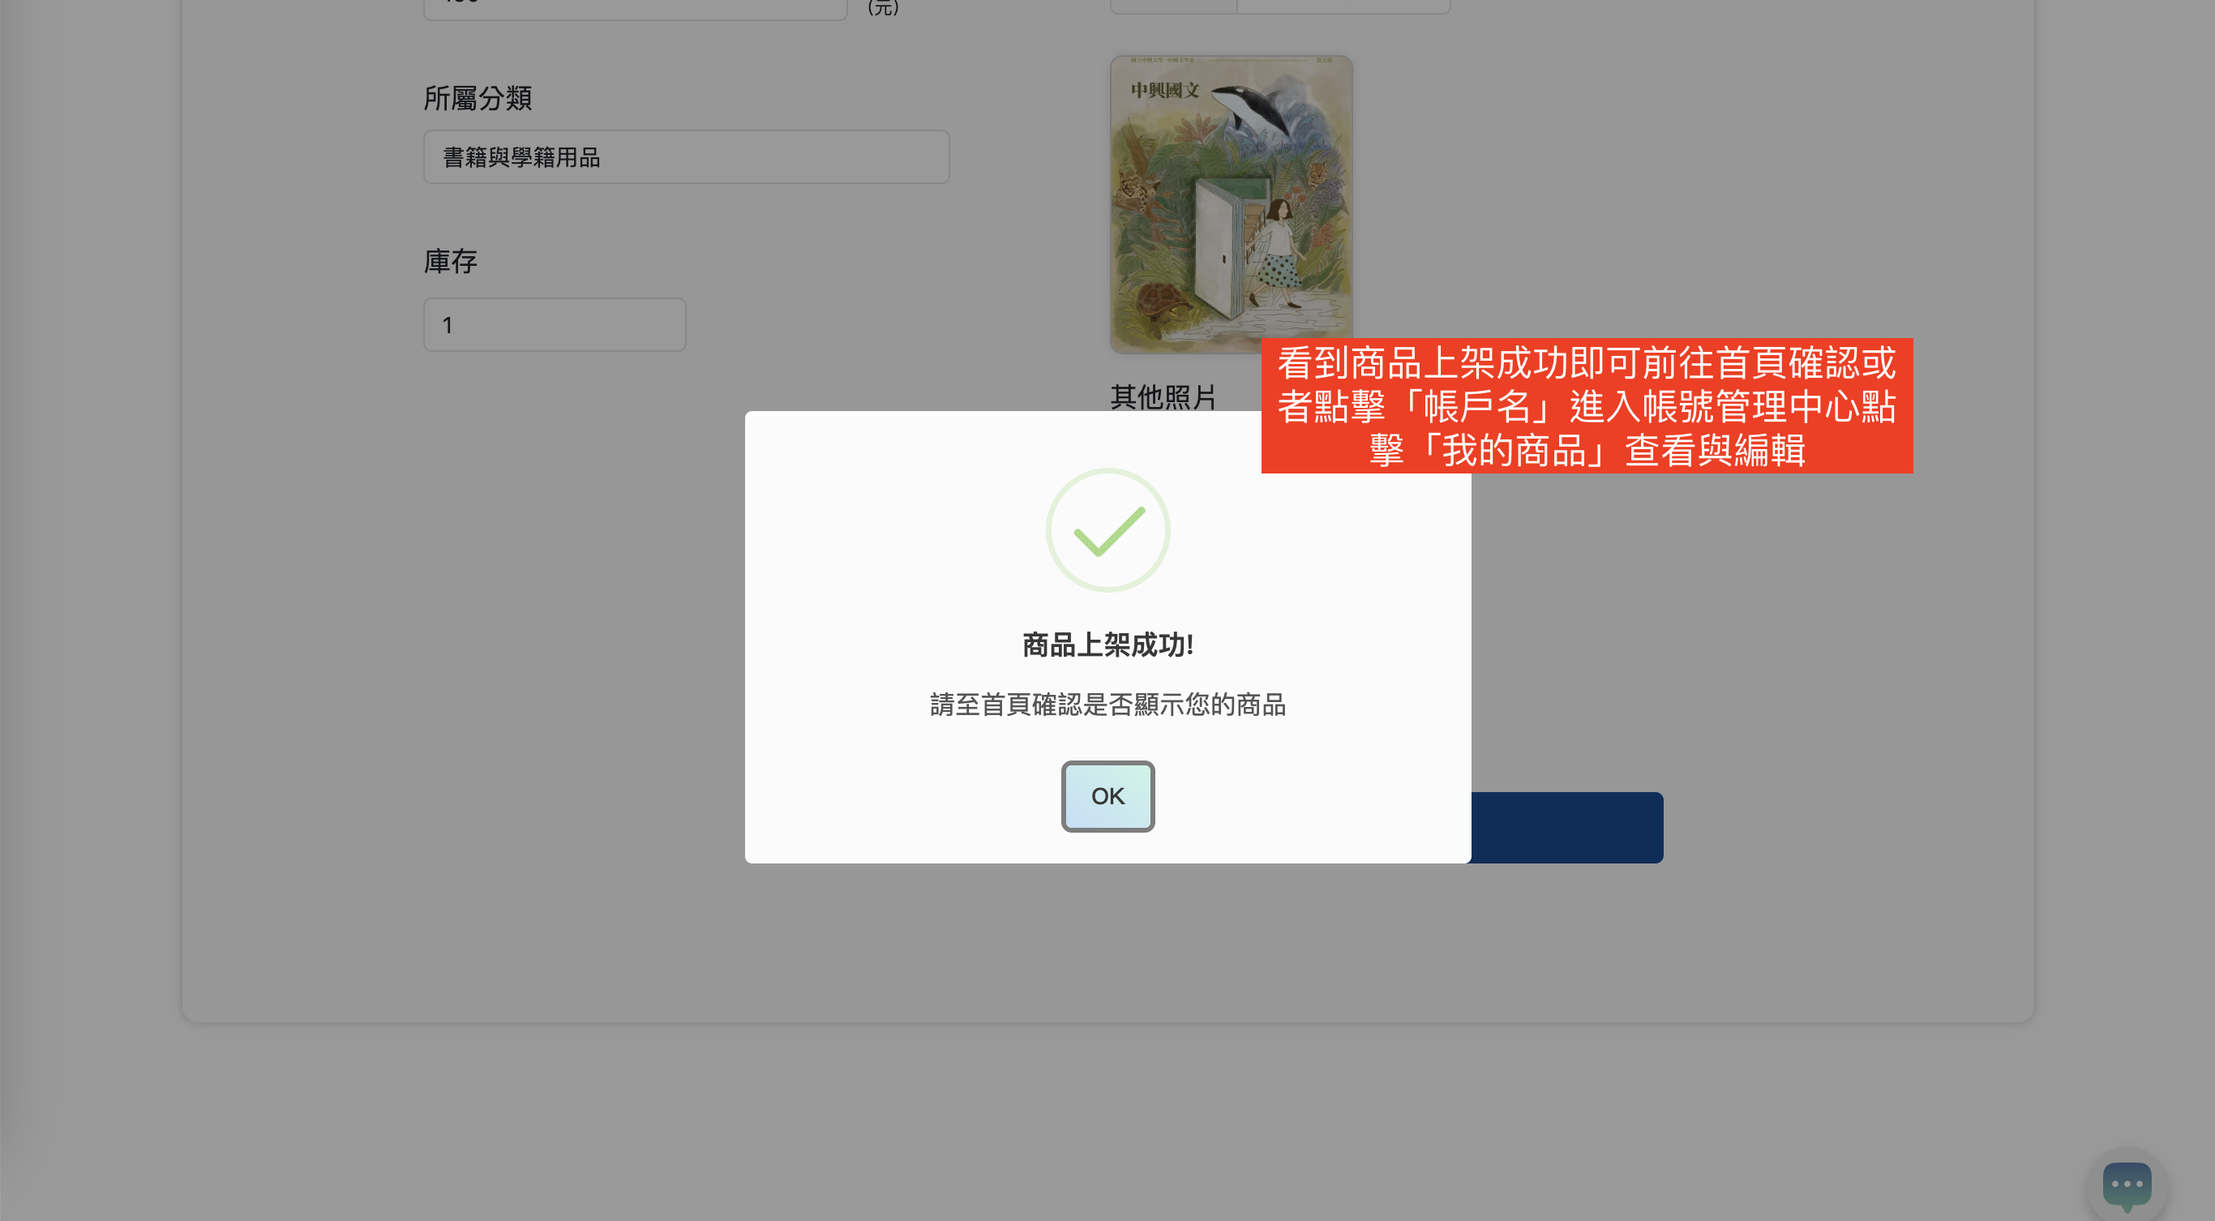
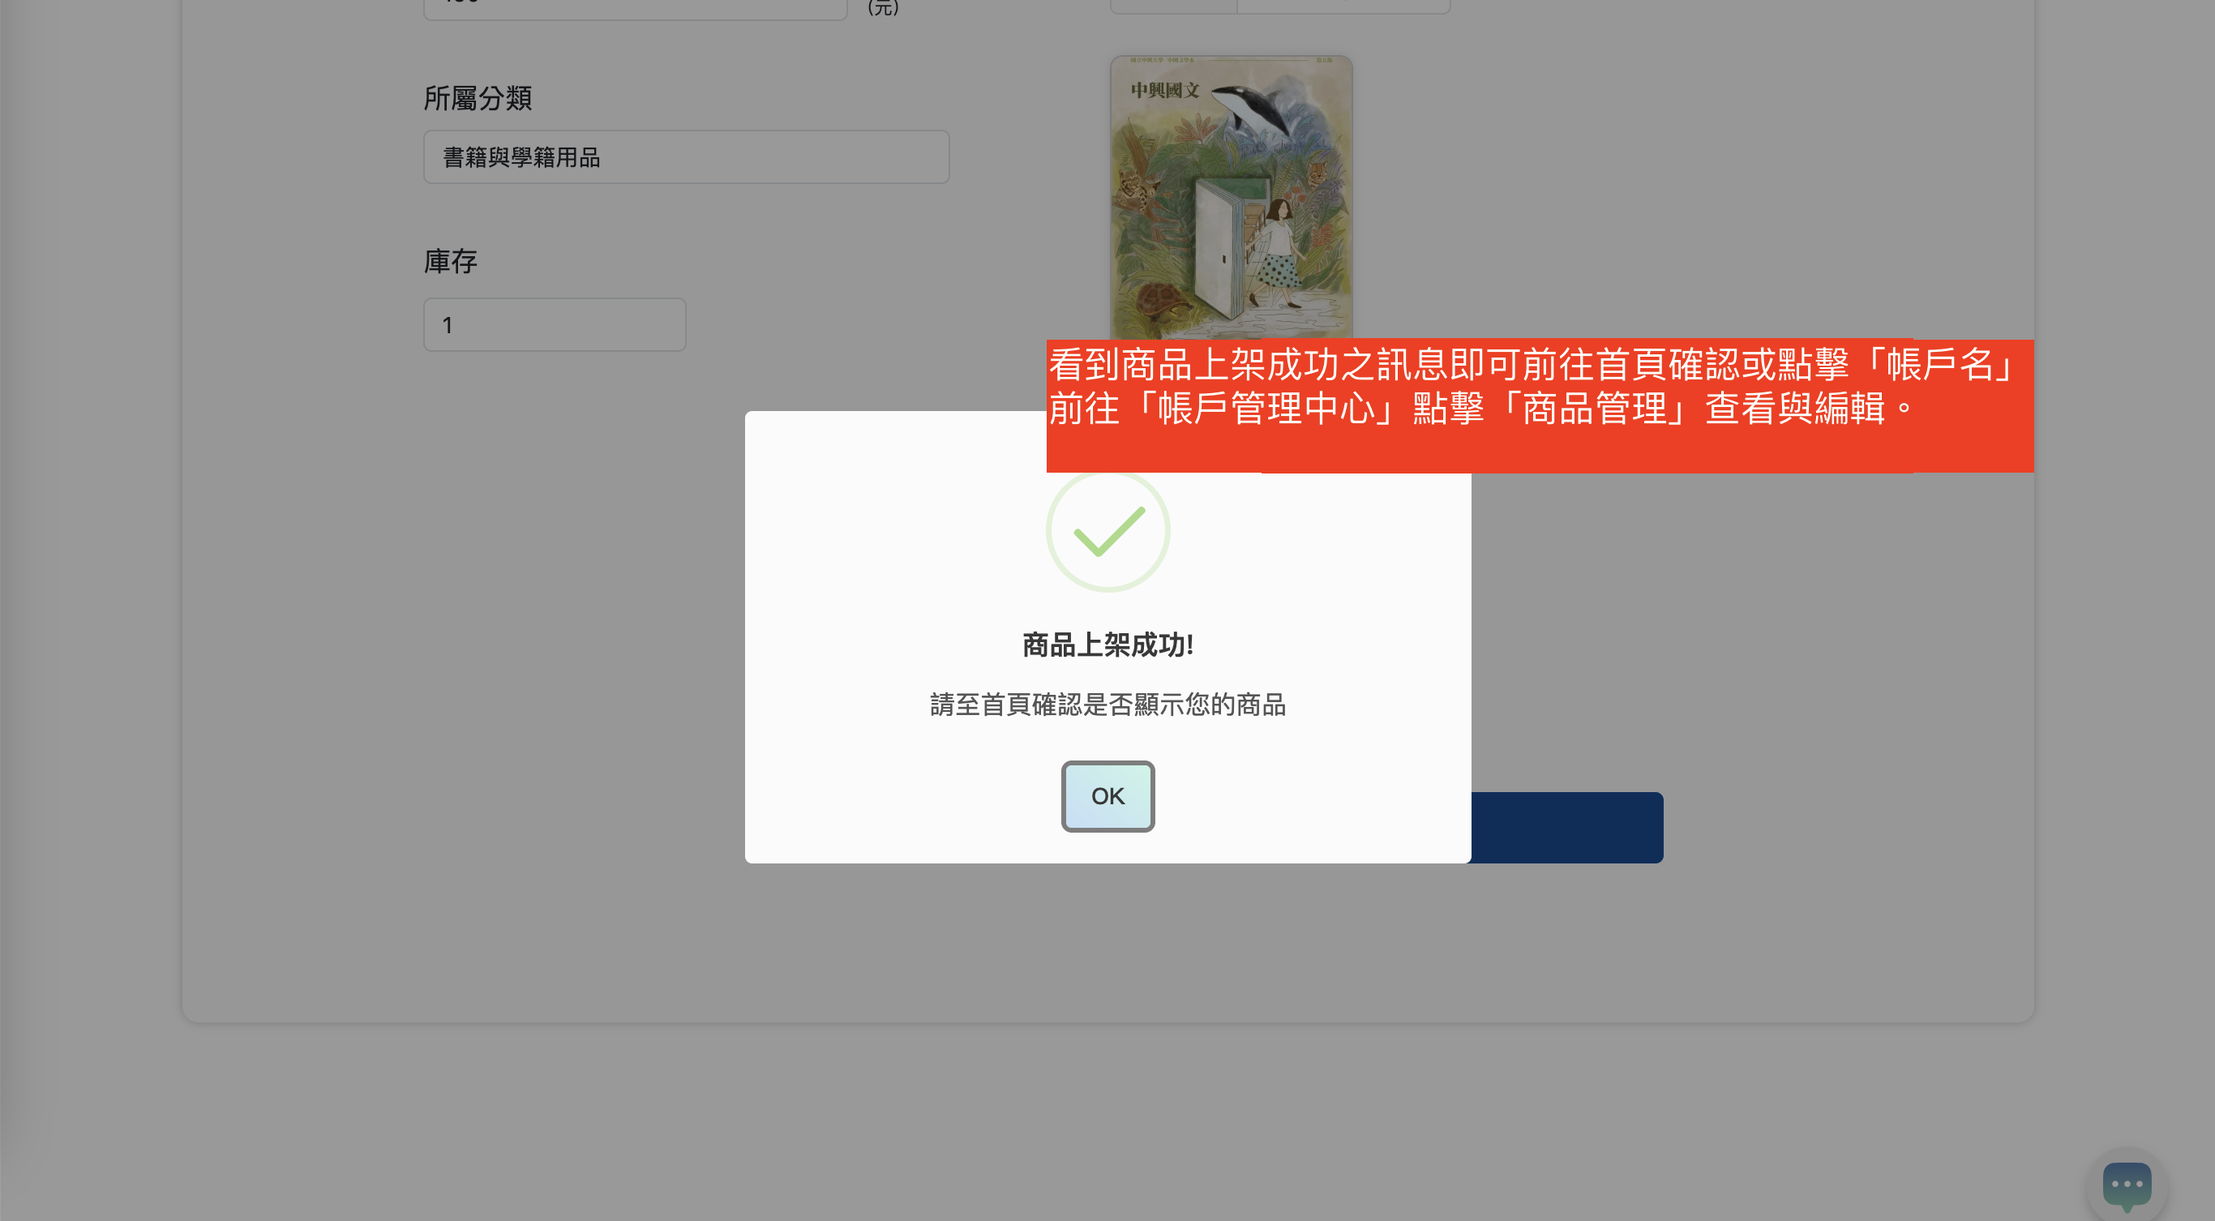
新增faq 的 alt

Changed region(s): [[0.4667, 0.2809, 0.9334, 0.4057]]

diff --git a/questions/questions.html b/questions/questions.html
@@ -146,43 +146,43 @@
                 <a href="../image/sell1.png"
                    data-pswp-width="1000"
                    data-pswp-height="360">
-                  <img loading="lazy" src="../image/sell1.png" width="1000" height="360" alt="">
+                  <img loading="lazy" src="../image/sell1.png" width="1000" height="360" alt="前往購物首頁，點選主廣告幅下方的賣家專區。">
                 </a>
 
                 <a href="../image/sell2.png"
                    data-pswp-width="1000"
                    data-pswp-height="560">
-                  <img loading="lazy" src="../image/sell2.png" width="1000" height="560" alt="">
+                  <img loading="lazy" src="../image/sell2.png" width="1000" height="560" alt="請先在 Home 區域閱讀販賣商品相關規則，再點擊「我要賣商品！」進入販賣商品環節。">
                 </a>
 
                 <a href="../image/sell3.png"
                    data-pswp-width="1000"
                    data-pswp-height="560">
-                  <img loading="lazy" src="../image/sell3.png" width="1000" height="560" alt="">
+                  <img loading="lazy" src="../image/sell3.png" width="1000" height="560" alt="進入「我要賣商品！」頁面後，即可填寫商品相關資訊。">
                 </a>
 
                 <a href="../image/sell4.png"
                    data-pswp-width="1000"
                    data-pswp-height="560">
-                  <img loading="lazy" src="../image/sell4.png" width="1000" height="560" alt="">
+                  <img loading="lazy" src="../image/sell4.png" width="1000" height="560" alt="填寫完整後點擊「一鍵販賣」。">
                 </a>
 
                 <a href="../image/sell5.png"
                    data-pswp-width="1000"
                    data-pswp-height="560">
-                  <img loading="lazy" src="../image/sell5.png" width="1000" height="560" alt="">
+                  <img loading="lazy" src="../image/sell5.png" width="1000" height="560" alt="系統提醒所有商品資訊皆須符合拾貨寶庫規定，若確定符合，點擊「是，我就要賣！」送出商品。">
                 </a>
 
                 <a href="../image/sell6.png"
                    data-pswp-width="1000"
                    data-pswp-height="560">
-                  <img loading="lazy" src="../image/sell6.png" width="1000" height="560" alt="">
+                  <img loading="lazy" src="../image/sell6.png" width="1000" height="560" alt="系統上架商品中會跳出等待動畫，請稍等，勿跳出視窗或做任何操作。">
                 </a>
 
                 <a href="../image/sell7.png"
                    data-pswp-width="1000"
                    data-pswp-height="560">
-                  <img loading="lazy" src="../image/sell7.png" width="1000" height="560" alt="">
+                  <img loading="lazy" src="../image/sell7.png" width="1000" height="560" alt="看到商品上架成功之訊息即可前往首頁確認或點擊「帳戶名」前往「帳戶管理中心」點擊「商品管理」查看與編輯。">
                 </a>
               </div>
             </div>
@@ -200,37 +200,37 @@
                 <a href="../image/howtobuy1.png"
                    data-pswp-width="1000"
                    data-pswp-height="560">
-                  <img loading="lazy" src="../image/howtobuy1.png" width="1000" height="560" alt="">
+                  <img loading="lazy" src="../image/howtobuy1.png" width="1000" height="560" alt="在拾貨寶庫的購物首頁或購物商場選擇您有興趣的商品，點擊商品。">
                 </a>
 
                 <a href="../image/howtobuy2.png"
                    data-pswp-width="1000"
                    data-pswp-height="560">
-                  <img loading="lazy" src="../image/howtobuy2.png" width="1000" height="560" alt="">
+                  <img loading="lazy" src="../image/howtobuy2.png" width="1000" height="560" alt="進入商品詳細資訊頁後，點擊馬上下單或加入購物車。如果對商品有疑問，可以往下滑點擊與賣家聊聊。">
                 </a>
 
                 <a href="../image/howtobuy3.png"
                    data-pswp-width="1000"
                    data-pswp-height="560">
-                  <img loading="lazy" src="../image/howtobuy3.png" width="1000" height="560" alt="">
+                  <img loading="lazy" src="../image/howtobuy3.png" width="1000" height="560" alt="一、點擊購物車跳轉到購物車頁面。二、勾選要下單的商品。三、勾選同意注意事項。四、點擊送出訂單（目前僅支援面交付款，敬請期待其他付費方式）。">
                 </a>
 
                 <a href="../image/howtobuy4.png"
                    data-pswp-width="1000"
                    data-pswp-height="560">
-                  <img loading="lazy" src="../image/howtobuy4.png" width="1000" height="560" alt="">
+                  <img loading="lazy" src="../image/howtobuy4.png" width="1000" height="560" alt="收到訂單建立成功之通知後，若要查看訂單可以點擊自己的帳戶名進入帳戶管理中心。">
                 </a>
 
                 <a href="../image/howtobuy5.png"
                    data-pswp-width="1000"
                    data-pswp-height="560">
-                  <img loading="lazy" src="../image/howtobuy5.png" width="1000" height="560" alt="">
+                  <img loading="lazy" src="../image/howtobuy5.png" width="1000" height="560" alt="進入帳戶管理中心後點擊「消費訂單」。">
                 </a>
 
                 <a href="../image/howtobuy6.png"
                    data-pswp-width="1000"
                    data-pswp-height="560">
-                  <img loading="lazy" src="../image/howtobuy6.png" width="1000" height="560" alt="">
+                  <img loading="lazy" src="../image/howtobuy6.png" width="1000" height="560" alt="可以看見剛下單的訂單記錄，若想得到更多資訊可以點擊訂單詳情。">
                 </a>
               </div>
             </div>  
@@ -248,19 +248,19 @@
                 <a href="../image/wish1.png"
                    data-pswp-width="1000"
                    data-pswp-height="560">
-                  <img loading="lazy" src="../image/wish1.png" width="1000" height="560" alt="">
+                  <img loading="lazy" src="../image/wish1.png" width="1000" height="560" alt="前往購物首頁，點選主廣告幅下方的許願專區（主廣告幅也有許願專區連結），或者其他頁面的導覽列中選擇許願專區。">
                 </a>
 
                 <a href="../image/wish2.png"
                    data-pswp-width="1000"
                    data-pswp-height="560">
-                  <img loading="lazy" src="../image/wish2.png" width="1000" height="560" alt="">
+                  <img loading="lazy" src="../image/wish2.png" width="1000" height="560" alt="進入許願池以後，點擊導覽列中的「我要許願」。">
                 </a>
 
                 <a href="../image/wish3.png"
                    data-pswp-width="1000"
                    data-pswp-height="560">
-                  <img loading="lazy" src="../image/wish3.png" width="1000" height="560" alt="">
+                  <img loading="lazy" src="../image/wish3.png" width="1000" height="560" alt="填寫許願表單並送出。即可在導覽列中「我的願望」頁查看。請注意：填寫表單或檢視自己的願望都必須先登入帳號。">
                 </a>
               </div>
             </div>
@@ -278,25 +278,25 @@
                 <a href="../image/wish1.png"
                   data-pswp-width="1000"
                   data-pswp-height="560">
-                  <img loading="lazy" src="../image/wish1.png" width="1000" height="560" alt="">
+                  <img loading="lazy" src="../image/wish1.png" width="1000" height="560" alt="前往購物首頁，點選主廣告幅下方的許願專區（主廣告幅也有許願專區連結），或者其他頁面的導覽列中選擇許願專區。">
                 </a>
 
                 <a href="../image/match1.png"
                    data-pswp-width="1000"
                    data-pswp-height="560">
-                  <img loading="lazy" src="../image/match1.png" width="1000" height="560" alt="">
+                  <img loading="lazy" src="../image/match1.png" width="1000" height="560" alt="選擇想要媒合的願望點擊進入願望詳細頁面。">
                 </a>
 
                 <a href="../image/match2.png"
                    data-pswp-width="1000"
                    data-pswp-height="560">
-                  <img loading="lazy" src="../image/match2.png" width="1000" height="560" alt="">
+                  <img loading="lazy" src="../image/match2.png" width="1000" height="560" alt="檢視許願者願望條件，若想要媒合許願者願望，點擊「聯絡許願者」。注意：聯絡許願者須先登入。">
                 </a>
 
                 <a href="../image/match3.png"
                    data-pswp-width="1000"
                    data-pswp-height="560">
-                  <img loading="lazy" src="../image/match3.png" width="1000" height="560" alt="">
+                  <img loading="lazy" src="../image/match3.png" width="1000" height="560" alt="點擊想要媒合的商品，請先檢查自己庫存是否足夠。選則商品點擊確認媒合後，系統將會自動通知許願者。若尚未上架該商品可點擊左下方連結前往販賣。">
                 </a>
               </div>
             </div>
@@ -314,19 +314,19 @@
                 <a href="../image/chat1.png"
                    data-pswp-width="1000"
                    data-pswp-height="560">
-                  <img loading="lazy" src="../image/chat1.png" width="1000" height="560" alt="">
+                  <img loading="lazy" src="../image/chat1.png" width="1000" height="560" alt="需事先登入。點擊聊天室icon顯示所有聊天列表，或者如果點進商品詳細頁面，會有「與賣家聊聊」，點擊後您將創建與賣家的一對一聊天室。">
                 </a>
 
                 <a href="../image/chat2.png"
                    data-pswp-width="1000"
                    data-pswp-height="560">
-                  <img loading="lazy" src="../image/chat2.png" width="1000" height="560" alt="">
+                  <img loading="lazy" src="../image/chat2.png" width="1000" height="560" alt="點擊想聊天的對象。注意：拾貨寶庫官方帳號僅作發送公告用，無法接收私人訊息。若有任何問題，請至拾貨寶庫之客服諮詢或官方Line/Instagram帳號。">
                 </a>
 
                 <a href="../image/chat3.png"
                    data-pswp-width="1000"
                    data-pswp-height="560">
-                  <img loading="lazy" src="../image/chat3.png" width="1000" height="560" alt="">
+                  <img loading="lazy" src="../image/chat3.png" width="1000" height="560" alt="進入聊天室即可輸入文字與對方對話，必要時也可點擊＋號傳送商品照片。">
                 </a>
               </div>
             </div>
@@ -344,19 +344,19 @@
                 <a href="../image/myAccountPage.png"
                    data-pswp-width="1000"
                    data-pswp-height="560">
-                  <img loading="lazy" src="../image/myAccountPage.png" width="1000" height="560" alt="">
+                  <img loading="lazy" src="../image/myAccountPage.png" width="1000" height="560" alt="登入後，點擊自己的暱稱（帳戶名），進入帳戶管理頁面。">
                 </a>
 
                 <a href="../image/my1.png"
                    data-pswp-width="1000"
                    data-pswp-height="560">
-                  <img loading="lazy" src="../image/my1.png" width="1000" height="560" alt="">
+                  <img loading="lazy" src="../image/my1.png" width="1000" height="560" alt="點擊「商品管理」。提醒：可先閱讀商品管理頁面相關資訊。">
                 </a>
 
                 <a href="../image/my2.png"
                    data-pswp-width="1000"
                    data-pswp-height="560">
-                  <img loading="lazy" src="../image/my2.png" width="1000" height="560" alt="">
+                  <img loading="lazy" src="../image/my2.png" width="1000" height="560" alt="進入商品管理頁面後，即可選擇查看、編輯、下架功能按鈕。">
                 </a>
               </div>
             </div>
@@ -374,13 +374,13 @@
                 <a href="../image/myAccountPage.png"
                    data-pswp-width="1000"
                    data-pswp-height="560">
-                  <img loading="lazy" src="../image/myAccountPage.png" width="1000" height="560" alt="">
+                  <img loading="lazy" src="../image/myAccountPage.png" width="1000" height="560" alt="登入後，點擊自己的暱稱（帳戶名），進入帳戶管理頁面。">
                 </a>
 
                 <a href="../image/buyerOrder.png"
                    data-pswp-width="1000"
                    data-pswp-height="560">
-                  <img loading="lazy" src="../image/buyerOrder.png" width="1000" height="560" alt="">
+                  <img loading="lazy" src="../image/buyerOrder.png" width="1000" height="560" alt="進入帳戶管理中心後點擊「消費訂單」。依照訂單不同狀態會有不同功能的按鈕可供點擊，相關資訊可至「最新資訊」或帳戶管理中心查看。可點擊訂單詳情獲取更多訂單資訊。">
                 </a>
 
               </div>
@@ -399,13 +399,13 @@
                 <a href="../image/myAccountPage.png"
                    data-pswp-width="1000"
                    data-pswp-height="560">
-                  <img loading="lazy" src="../image/myAccountPage.png" width="1000" height="560" alt="">
+                  <img loading="lazy" src="../image/myAccountPage.png" width="1000" height="560" alt="登入後，點擊自己的暱稱（帳戶名），進入帳戶管理頁面。">
                 </a>
 
                 <a href="../image/sellerOrder.png"
                    data-pswp-width="1000"
                    data-pswp-height="560">
-                  <img loading="lazy" src="../image/sellerOrder.png" width="1000" height="560" alt="">
+                  <img loading="lazy" src="../image/sellerOrder.png" width="1000" height="560" alt="進入帳戶管理中心後，點擊「銷售訂單」。依照訂單不同狀態會有不同的按鈕可點擊，相關資訊可至「最新資訊」或者「帳戶管理中心」查詢。想獲得訂單更多資訊可點擊「訂單詳情」。">
                 </a>
 
               </div>
@@ -424,52 +424,7 @@
             <i class="fas fa-plus icon"></i>
           </button>
           <div class="content-news">
-            A1: 
-            <div class="sellImgContainer">
-              <div class="stepImg">
-                <a href="../image/sell1.png"
-                   data-pswp-width="1000"
-                   data-pswp-height="360">
-                  <img loading="lazy" src="../image/sell1.png" width="1000" height="360" alt="">
-                </a>
-
-                <a href="../image/sell2.png"
-                   data-pswp-width="1000"
-                   data-pswp-height="560">
-                  <img loading="lazy" src="../image/sell2.png" width="1000" height="560" alt="">
-                </a>
-
-                <a href="../image/sell3.png"
-                   data-pswp-width="1000"
-                   data-pswp-height="560">
-                  <img loading="lazy" src="../image/sell3.png" width="1000" height="560" alt="">
-                </a>
-
-                <a href="../image/sell4.png"
-                   data-pswp-width="1000"
-                   data-pswp-height="560">
-                  <img loading="lazy" src="../image/sell4.png" width="1000" height="560" alt="">
-                </a>
-
-                <a href="../image/sell5.png"
-                   data-pswp-width="1000"
-                   data-pswp-height="560">
-                  <img loading="lazy" src="../image/sell5.png" width="1000" height="560" alt="">
-                </a>
-
-                <a href="../image/sell6.png"
-                   data-pswp-width="1000"
-                   data-pswp-height="560">
-                  <img loading="lazy" src="../image/sell6.png" width="1000" height="560" alt="">
-                </a>
-
-                <a href="../image/sell7.png"
-                   data-pswp-width="1000"
-                   data-pswp-height="560">
-                  <img loading="lazy" src="../image/sell7.png" width="1000" height="560" alt="">
-                </a>
-              </div>
-            </div>            
+            A1: 請洽操作說明區的Q1，裡面有詳細的圖文說明哦！          
           </div>
         </li>
 
@@ -489,7 +444,7 @@
             <i class="fas fa-plus icon"></i>
           </button>
           <div class="content-news">
-            A3: 自行賣出之商品須自行上架，上架操作請參考Q1
+            A3: 賣出之商品須自行上架，上架操作請參考操作說明區的Q1，裡面有詳細的圖文說明哦！若有任何操作上的問題，歡迎至客服諮詢或官方Line/Instagram帳號詢問，我們會盡快回覆您！
           </div>
         </li>
 
